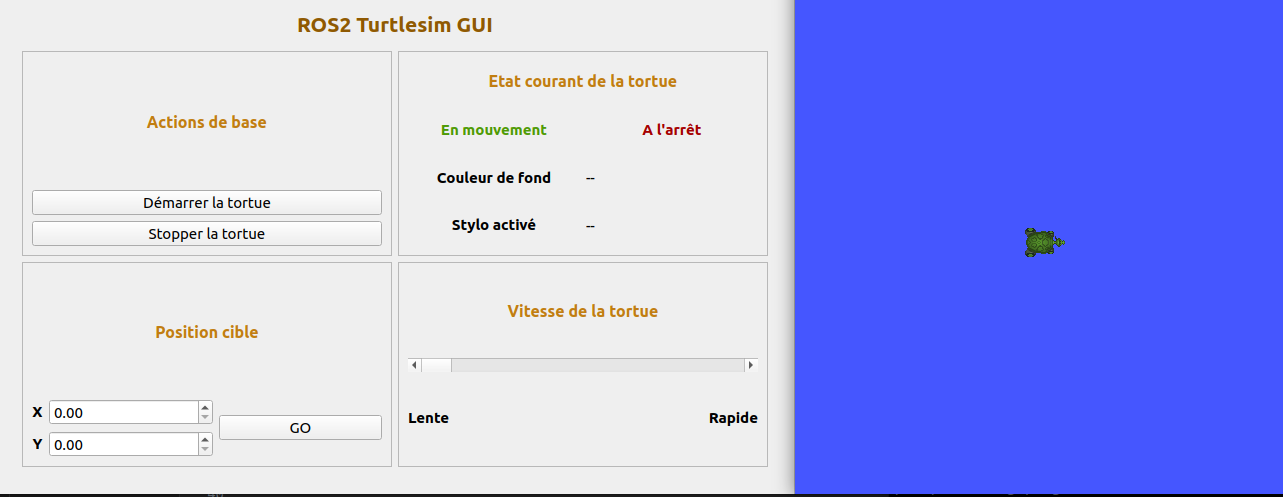
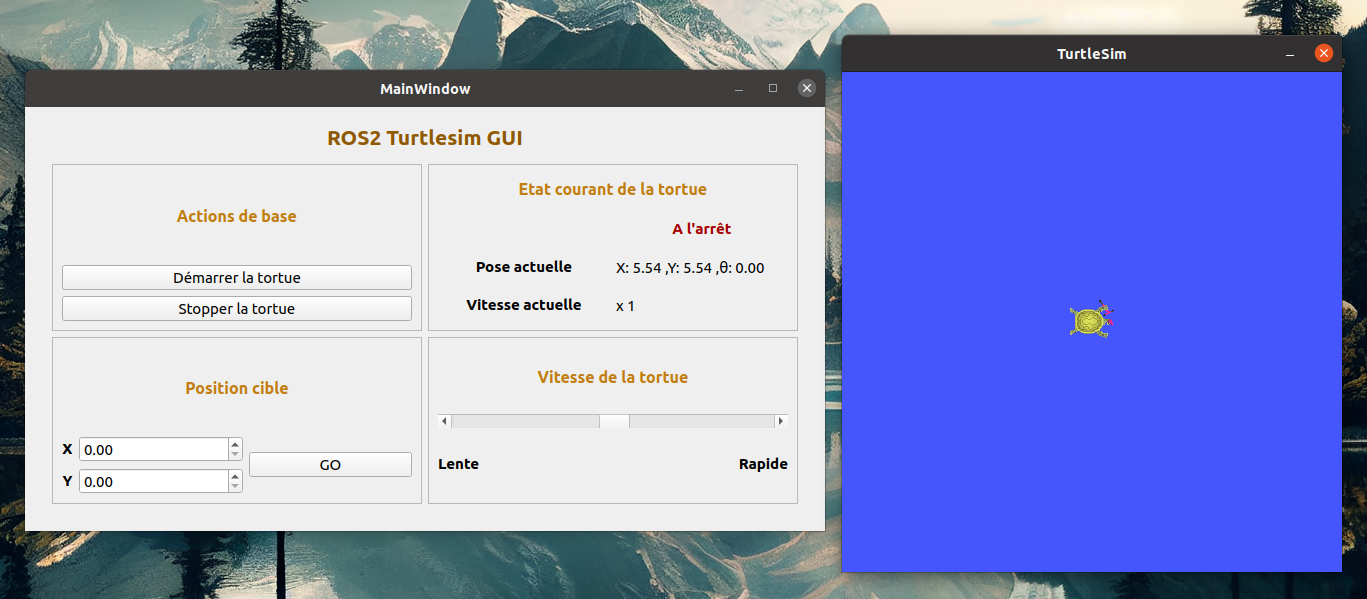
vitesse de deplacement + infos simulation

diff --git a/src/qt/MainWindow.cpp b/src/qt/MainWindow.cpp
@@ -1,5 +1,7 @@
 #include "MainWindow.hpp"
 #include "ui_MainWindow.h"
+#include <iomanip>
+#include <sstream>
 
 MainWindow::MainWindow(QWidget *parent) 
     : QMainWindow(parent), ui(new Ui::MainWindow) {
@@ -27,9 +29,19 @@ MainWindow::MainWindow(QWidget *parent)
     connect(ui->stopButton, &QPushButton::clicked, this, &MainWindow::onStopBtnClick);
     connect(ui->goButton, &QPushButton::clicked, this, &MainWindow::onGoBtnClick);
 
+    // Liaison scrollBar - fonction
+    connect(ui->speedScrollBar, &QScrollBar::valueChanged, this, &MainWindow::onSpeedValueChange);
+
     // Position cible
     ui->targetX->setRange(0,11);
     ui->targetY->setRange(0,11);
+
+    // Etat initial vitesse
+    ui->speedScrollBar->setValue(50);
+
+    // Etat initial labels
+    ui->label_run->hide();
+    ui->label_stop->show();
 
 }
 
@@ -40,16 +52,30 @@ MainWindow::~MainWindow() {
 // Lecture pose courante
 void MainWindow::poseCallback(const turtlesim::msg::Pose::SharedPtr msg) {
     current_pose = *msg;
+    float theta_to_deg = current_pose.theta * 180.0 / 3.14159;
+
+    std::ostringstream stream;
+    stream << std::fixed << std::setprecision(2);
+    stream << "X: " << current_pose.x;
+    stream << " ,Y: " << current_pose.y;
+    stream << " ," << u8"\u03B8" << ": " << theta_to_deg;
+
+    ui->label_pos->setText(QString::fromStdString(stream.str()));
 }
 
 // Publication de message avec timer actif
 void MainWindow::publishMessage() {
     auto message = geometry_msgs::msg::Twist();
+    float currentSpeed = ui->speedScrollBar->value() / 25.0;
 
     switch(current_mode) {
         case ACTIF: {        // CERCLE
-            message.linear.x = 1.0;  
-            message.angular.z = 1.0; 
+            message.linear.x = 1.0 * currentSpeed;  
+            message.angular.z = 1.0 * currentSpeed; 
+
+            ui->label_run->show();
+            ui->label_stop->hide();
+
             break;
         }
         case CIBLE: {         // ATTEINTE POSITION CIBLE
@@ -65,15 +91,21 @@ void MainWindow::publishMessage() {
             float ang_cible = atan2(y_err,x_err);
             float ang_err = ang_cible - current_pose.theta;
 
+            ui->label_run->show();
+            ui->label_stop->hide();
+
             if (std::abs(ang_err) > 0.2) {
-                message.angular.z = k_ang * ang_err; 
+                message.angular.z = k_ang * ang_err * currentSpeed; 
             } 
-            else if (d > 0.2) {
-                message.linear.x = k_lin * d;
+            else if (d > 0.1) {
+                message.linear.x = k_lin * d * currentSpeed;
             }
             else {
                 current_mode = INACTIF;
                 publish_timer->stop(); 
+
+                ui->label_run->hide();
+                ui->label_stop->show();
             }
             break;
         }
@@ -87,15 +119,16 @@ void MainWindow::publishMessage() {
 // Demarrage
 void MainWindow::onStartBtnClick() {
     current_mode = ACTIF;
-    running = true;
     publish_timer->start(100);
 }
 
 // Arrêt
 void MainWindow::onStopBtnClick() {
     current_mode = INACTIF;
-    running = false;
     publish_timer->stop();
+
+    ui->label_run->hide();
+    ui->label_stop->show();
 
     auto stop_message = geometry_msgs::msg::Twist();
     stop_message.linear.x = 0.0;
@@ -106,7 +139,15 @@ void MainWindow::onStopBtnClick() {
 // Deplacement vers position cible
 void MainWindow::onGoBtnClick(){
     current_mode = CIBLE;
-    running = true;
     publish_timer->start(100);
+}
+
+// Modification de la vitesse
+void MainWindow::onSpeedValueChange(float val){
+    float currentSpeed = val / 50.0;
+
+    std::ostringstream stream;
+    stream << "x " << currentSpeed;
+    ui->label_speed->setText(QString::fromStdString(stream.str()));
 }
 

diff --git a/src/qt/MainWindow.hpp b/src/qt/MainWindow.hpp
@@ -27,6 +27,7 @@ private slots:
     void onStartBtnClick();
     void onStopBtnClick();
     void onGoBtnClick();
+    void onSpeedValueChange(float val);
     void poseCallback(const turtlesim::msg::Pose::SharedPtr msg);
 
 private:

diff --git a/README.md b/README.md
@@ -2,7 +2,7 @@
 
 ## Description
 Ce projet est une application Qt qui interagit avec un nœud Turtlesim ROS2. Il permet aux utilisateurs de contrôler le mouvement d'une tortue dans l'environnement Turtlesim en utilisant une interface graphique intuitive. 
-L'application permet de démarrer et d'arrêter le mouvement de la tortue, de la diriger vers une position cible, et de contrôler la vitesse de déplacement
+L'application permet de démarrer et d'arrêter le mouvement de la tortue, de la diriger vers une position cible, et de contrôler la vitesse de déplacement.
 
 ## Auteur
 - Gaetan Chevalier [https://github.com/GaetanChvlr]
